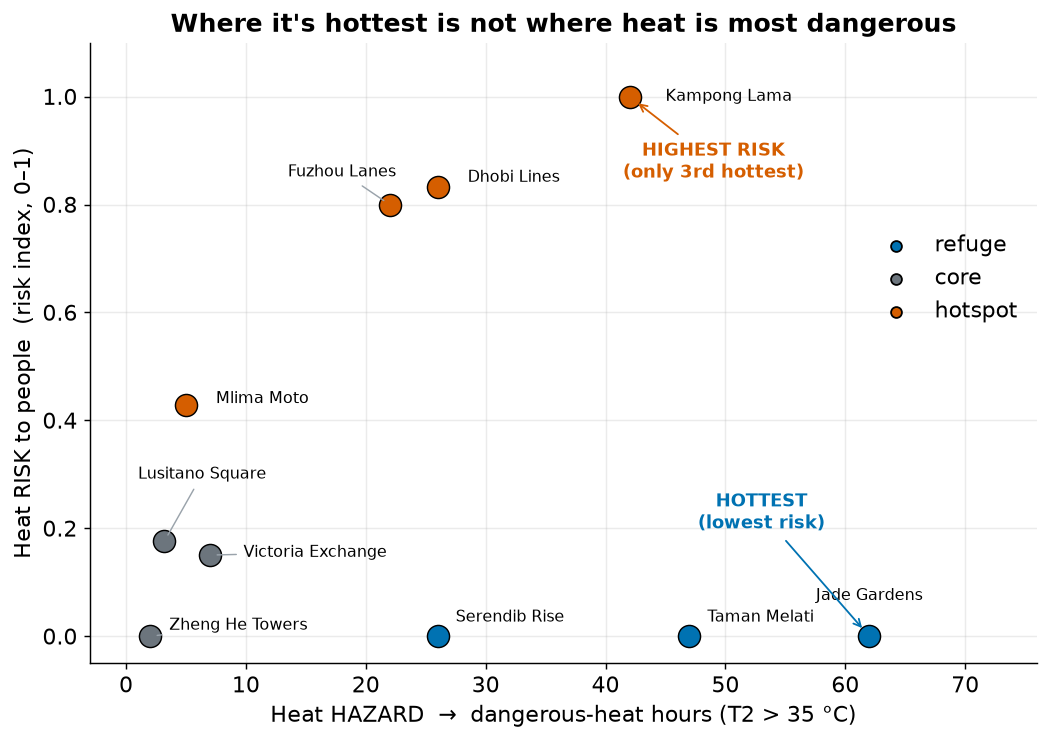
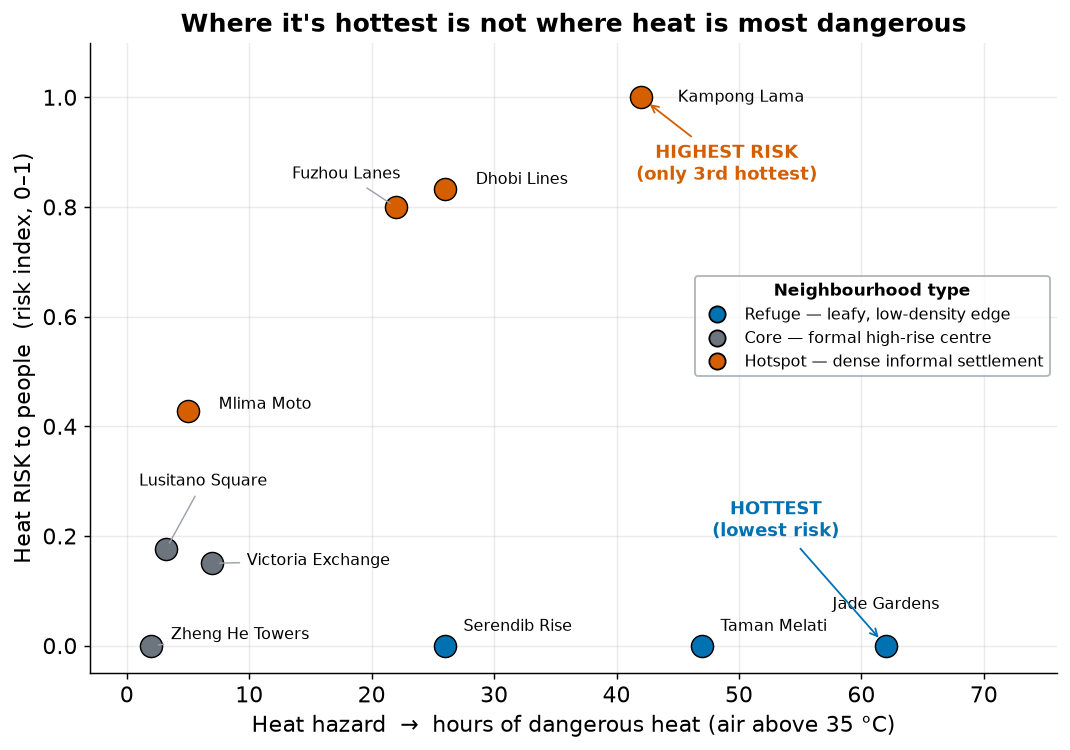
Fig1: bordered 'Neighbourhood type' legend with capitalised names + plain descriptions; friendlier x-axis (img ?v=4)

diff --git a/docs/index.html b/docs/index.html
@@ -136,7 +136,7 @@
   <h2 id="headline"><span class="num">1.</span>&nbsp; Hottest ≠ highest-risk</h2>
   <p class="lede">Hazard and risk are different questions. One is about the air; the other is about the people in it.</p>
   <figure>
-    <img src="figs/fig1_hottest_vs_risk.png?v=3" alt="Scatter of dangerous-heat hours versus risk index for the ten neighbourhoods, showing the hottest neighbourhood at the bottom of risk and the highest-risk neighbourhood only mid-range on heat.">
+    <img src="figs/fig1_hottest_vs_risk.png?v=4" alt="Scatter of dangerous-heat hours versus risk index for the ten neighbourhoods, showing the hottest neighbourhood at the bottom of risk and the highest-risk neighbourhood only mid-range on heat.">
     <figcaption>Horizontal = how hot (hours above 35&nbsp;°C). Vertical = how dangerous to people (risk index).
       The hottest place (Jade Gardens, far right) is at the floor of risk; the highest-risk place
       (Kampong Lama, top) is only mid-pack on heat.</figcaption>

diff --git a/scripts/reproduce.py b/scripts/reproduce.py
@@ -31,6 +31,7 @@ import matplotlib
 matplotlib.use("Agg")
 import matplotlib.pyplot as plt
 from matplotlib import cm, colors
+from matplotlib.lines import Line2D
 import numpy as np
 import pandas as pd
 
@@ -160,16 +161,23 @@ def _figures(P, F, H, I):
                         arrowprops=dict(arrowstyle="-", color="#9aa3ab", lw=0.8, shrinkA=2, shrinkB=4))
         else:
             ax.text(lx, ly, n, fontsize=9, ha=ha, va="center")
-    for t in TCOL:
-        ax.scatter([], [], color=TCOL[t], label=t, edgecolor="k")
-    ax.legend(loc="center right", frameon=False, bbox_to_anchor=(1.0, 0.62))
+    handles = [Line2D([], [], marker="o", color="w", markerfacecolor=BLUE, markeredgecolor="k",
+                      markersize=9, label="Refuge - leafy, low-density edge"),
+               Line2D([], [], marker="o", color="w", markerfacecolor=GREY, markeredgecolor="k",
+                      markersize=9, label="Core - formal high-rise centre"),
+               Line2D([], [], marker="o", color="w", markerfacecolor=VERM, markeredgecolor="k",
+                      markersize=9, label="Hotspot - dense informal settlement")]
+    leg = ax.legend(handles=handles, title="Neighbourhood type", loc="center right",
+                    bbox_to_anchor=(1.0, 0.55), frameon=True, fontsize=8.6, title_fontsize=9.5)
+    leg.get_frame().set_edgecolor("#9aa3ab"); leg.get_frame().set_linewidth(1.0)
+    leg.get_title().set_fontweight("bold")
     ax.annotate("HIGHEST RISK\n(only 3rd hottest)", (42, 1.0), xytext=(49, 0.85), fontsize=10,
                 color=VERM, fontweight="bold", ha="center",
                 arrowprops=dict(arrowstyle="->", color=VERM, shrinkB=6))
     ax.annotate("HOTTEST\n(lowest risk)", (62, 0.0), xytext=(53, 0.20), fontsize=10, color=BLUE,
                 fontweight="bold", ha="center", arrowprops=dict(arrowstyle="->", color=BLUE, shrinkB=6))
     ax.set_xlim(-3, 76); ax.set_ylim(-0.05, 1.10)
-    ax.set_xlabel("Heat HAZARD  ->  dangerous-heat hours (T2 > 35 C)")
+    ax.set_xlabel("Heat hazard  ->  hours of dangerous heat (air above 35 C)")
     ax.set_ylabel("Heat RISK to people  (risk index, 0-1)")
     ax.set_title("Where it's hottest is not where heat is most dangerous")
     ax.grid(alpha=.25)